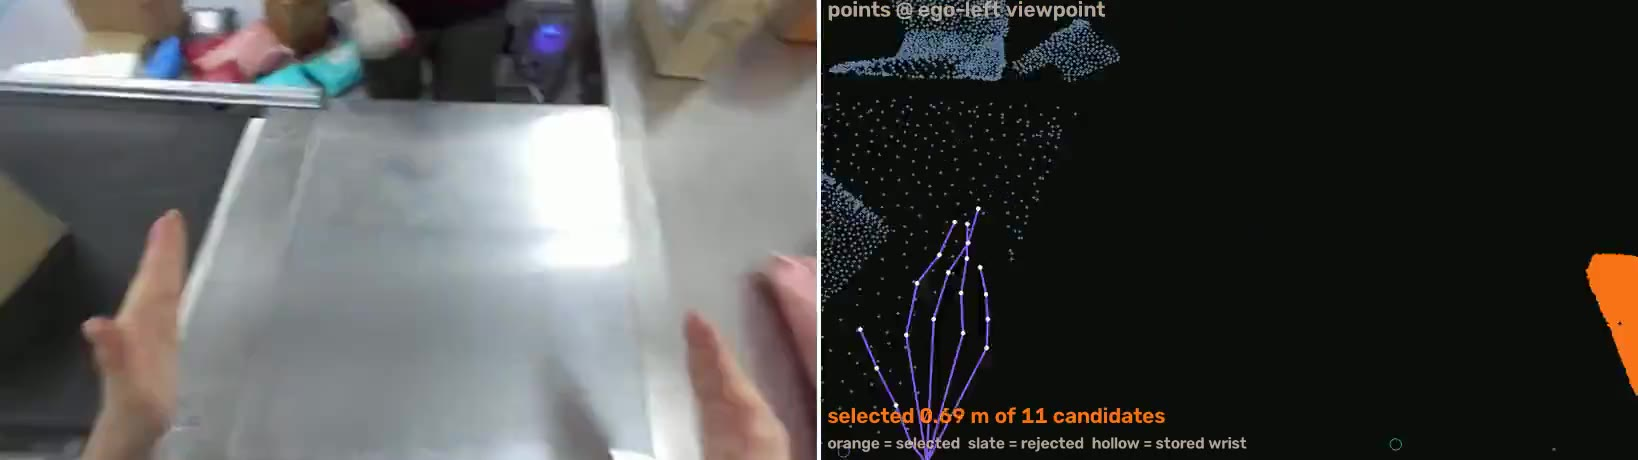
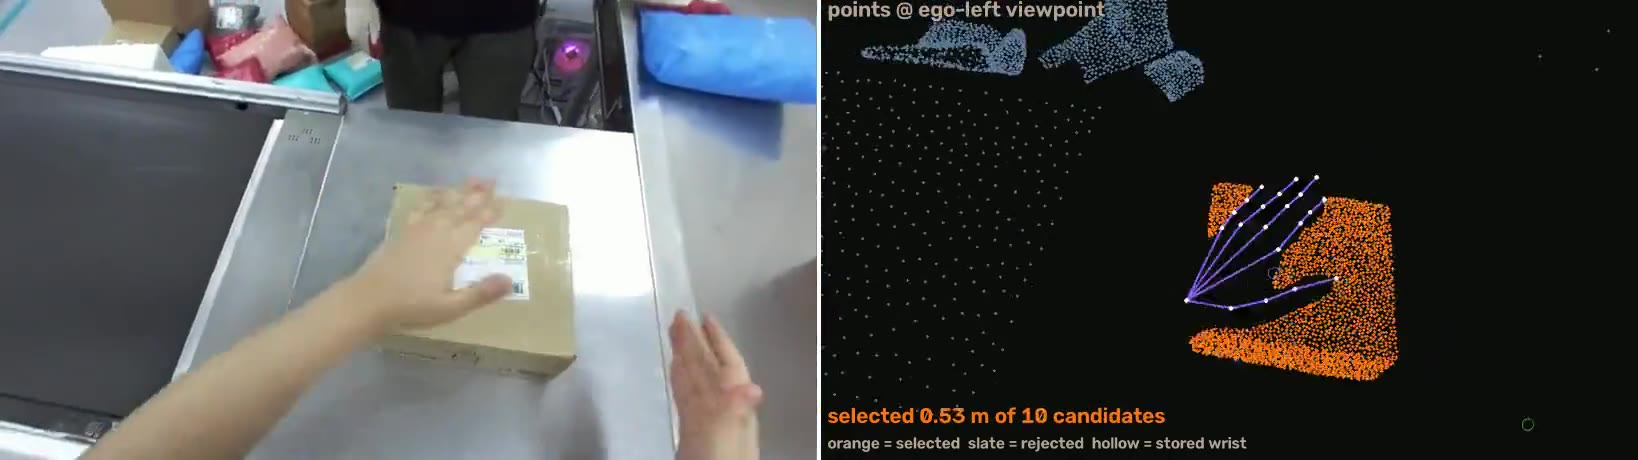
dpp-bmw decks: put the two-panel clip on a slide for BOTH hand sources; label the 09-02 clips
09-03: the ep0 two-panel clip (BMW's RGB | points grammar) was only an appendix
link. It is the visualization that shows a skeleton on the actual hand, so it now
gets its own results slide with A and D side by side, and the 3D scene pair moves
to a fourth results slide. Posters moved to a grasp frame.

09-02: its clips are MediaPipe and said so nowhere - verified by hash that the
published ep0_allobj.mp4 and train3d.mp4 are the A renders. Footnotes now name the
hand source and point at the 09-03 deck for his.

Claude-Session: https://claude.ai/code/session_015SEhnivJquMUW6RUXFeSxd

diff --git a/experiments/dpp-bmw/decks/2026-09-03-hand-source-decided/index.html b/experiments/dpp-bmw/decks/2026-09-03-hand-source-decided/index.html
@@ -89,7 +89,8 @@
       <ul><li>accurate where both eyes agree</li>
           <li>ungated, it invents the rest</li></ul></li>
     <li>Every source, measured</li>
-    <li>What the clips look like</li>
+    <li>The episode clip, both sources</li>
+    <li>The 3D scene, both sources</li>
   </ol>
   <div class="band">
     <figure><img src="assets/fig_hisgate.jpg" alt="Two bar charts: fraction of hand-frames where both eyes contributed, and the triangulation reprojection error where they did.">
@@ -108,7 +109,8 @@
     <li class="on">Every source, measured
       <ul><li>his is the most accurate one</li>
           <li>it is also the sparsest one</li></ul></li>
-    <li>What the clips look like</li>
+    <li>The episode clip, both sources</li>
+    <li>The 3D scene, both sources</li>
   </ol>
   <div class="band">
     <table>
@@ -127,9 +129,30 @@
   <ol class="agenda">
     <li>His pipeline grades its own work</li>
     <li>Every source, measured</li>
-    <li class="on">What the clips look like
+    <li class="on">The episode clip, both sources
+      <ul><li>skeleton on the actual hand</li>
+          <li>same objects, same frames</li></ul></li>
+    <li>The 3D scene, both sources</li>
+  </ol>
+  <div class="band">
+    <figure><video src="assets/ep0_allobj_A.mp4" poster="assets/ep0_allobj_A.jpg" autoplay loop muted playsinline preload="metadata"></video>
+      <figcaption>A — MediaPipe + VGGT depth</figcaption></figure>
+    <figure><video src="assets/ep0_allobj_D.mp4" poster="assets/ep0_allobj_D.jpg" autoplay loop muted playsinline preload="metadata"></video>
+      <figcaption>D — his solver, gated by its own diagnostic</figcaption></figure>
+  </div>
+  <p class="footnote">ep0, full episode, BMW's two-panel grammar — left: ego RGB · right: the same viewpoint in points, object orange, rejected slate; only the hand source differs</p>
+</section>
+
+<!-- SECTION: results (4) -->
+<section class="slide s-results">
+  <h2>Results</h2>
+  <ol class="agenda">
+    <li>His pipeline grades its own work</li>
+    <li>Every source, measured</li>
+    <li>The episode clip, both sources</li>
+    <li class="on">The 3D scene, both sources
       <ul><li>his hands are fewer, truer</li>
-          <li>same scene, same camera, same gate</li></ul></li>
+          <li>same camera, box and gate</li></ul></li>
   </ol>
   <div class="band">
     <figure><video src="assets/train3d_A.mp4" poster="assets/train3d_A.jpg" autoplay loop muted playsinline preload="metadata"></video>
@@ -174,7 +197,7 @@
         <dt>Two-eye test</dt><dd class="mono">viz/two_eye_check.py — project each 3D hand into the left eye, pair to the nearest stereo-matched detection, then project through R_10/t_10 into the right eye. A ep0/1/2: 20.3/31.1 · 17.9/29.0 · 21.5/36.5 px (asymmetric = depth too far; predicted disparity 103.8 vs 109.1 observed). D gated: 16.0/13.8 · 16.3/16.9 · 14.8/13.6 px.</dd>
         <dt>Four sources</dt><dd class="mono">coverage, span and wrist-vs-detected-2D for all four, including HaWoR: <a href="assets/fig_handsources.jpg">fig_handsources.jpg</a></dd>
         <dt>Option B</dt><dd class="mono">HaWoR span 9.22 cm (not the 12 cm a MANO-ordered index reports) but 150 px from the detected 2D wrist — its placement, not its shape, is what fails. Unchanged from the 09-02 deck.</dd>
-        <dt>Clips</dt><dd class="mono">ep0 two-panel on each source: <a href="assets/ep0_allobj_A.mp4">A</a> · <a href="assets/ep0_allobj_D.mp4">D</a>. Renders: viz/run_mano_render.sh (pull → convert → clips → 3D → figure), viz/mano_hands.py, viz/hands3d_multi.py --hands-suffix.</dd>
+        <dt>Clips</dt><dd class="mono">ep0 two-panel on each source is on the results slide; ep1 renders the same way. Renders: viz/run_mano_render.sh (pull → convert → clips → 3D → figure), viz/mano_hands.py, viz/hands3d_multi.py --hands-suffix.</dd>
         <dt>Stereo C</dt><dd class="mono">viz/stereo_hands.py — MediaPipe both eyes, epipolar match, DLT. fx cannot be recovered this way: the residual falls monotonically to the sweep floor (8.7 mm at 440 px, 10.8 at 733, 13.0 at 1000) because per-landmark depth noise swamps the shape term. Lateral extent is fx-free and reads 7.5 cm against MediaPipe's 9.2 cm model.</dd>
       </dl>
     </div>

diff --git a/experiments/dpp-bmw/decks/2026-09-02-all-objects-nearest/index.html b/experiments/dpp-bmw/decks/2026-09-02-all-objects-nearest/index.html
@@ -45,7 +45,7 @@
     <figure><img src="assets/fig_selection.jpg" alt="Three panels: object coverage before and after, depth histogram of selected versus rejected candidates, and candidates found per frame.">
       <figcaption>Coverage before/after · depth of selected vs rejected · candidates per frame</figcaption></figure>
   </div>
-  <p class="footnote">object orange · rejected slate · left hand purple · right hand green · hollow ring = stored (retargeted) wrist · v3/human_hmd_new ep0</p>
+  <p class="footnote">object orange · rejected slate · left hand purple · right hand green · hollow ring = stored (retargeted) wrist · <b>hands = A, MediaPipe + VGGT</b> · v3/human_hmd_new ep0</p>
 </section>
 
 <!-- SECTION: method (1) -->
@@ -100,7 +100,7 @@
     <figure><video src="assets/ep1_allobj.mp4" poster="assets/ep1_allobj.jpg" autoplay loop muted playsinline preload="metadata"></video>
       <figcaption>ep1, same pipeline unchanged — object found on 254 of 255 frames</figcaption></figure>
   </div>
-  <p class="footnote">BMW's two-panel grammar (mano_run101_work/viz_handobj2.py), so the two rigs read side by side</p>
+  <p class="footnote">BMW's two-panel grammar (mano_run101_work/viz_handobj2.py), so the two rigs read side by side · <b>hands here are A (MediaPipe + VGGT)</b>; seungjun's are in the <a href="/experiments/dpp-bmw/decks/2026-09-03-hand-source-decided/">09-03 deck</a>, beside A</p>
 </section>
 
 <!-- SECTION: results (2) -->
@@ -117,7 +117,7 @@
     <figure><video src="assets/train3d.mp4" poster="assets/train3d.jpg" autoplay loop muted playsinline preload="metadata"></video>
       <figcaption>ep0 · ep1 · ep2 — a 46 cm following box, one turn every 16 s, then a revolution of the grasp instant (hand 1.2 cm off the package face)</figcaption></figure>
   </div>
-  <p class="footnote">the first cut framed one 179 cm box for every episode, so the action filled a quarter of the panel; a reach gate now drops wrists past 90 cm</p>
+  <p class="footnote">the first cut framed one 179 cm box for every episode, so the action filled a quarter of the panel; a reach gate now drops wrists past 90 cm · <b>hands = A</b></p>
 </section>
 
 <!-- SECTION: results (3) -->
